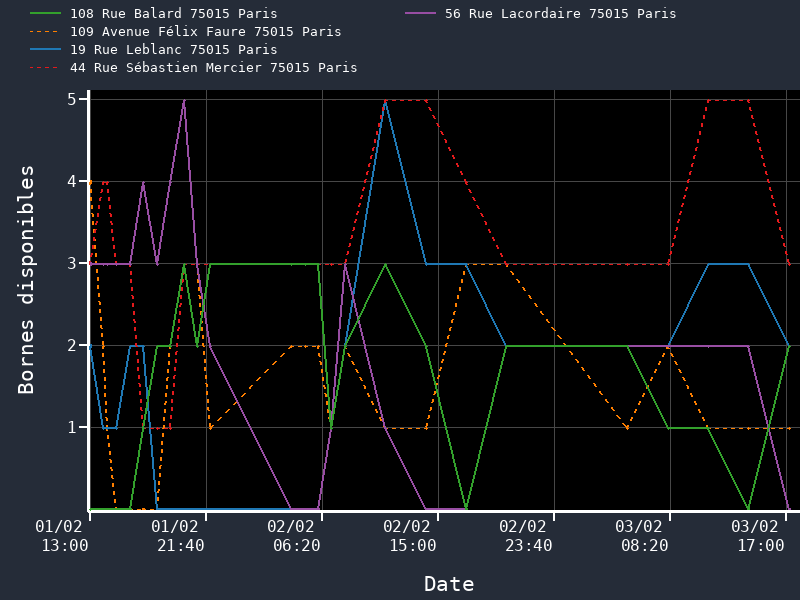
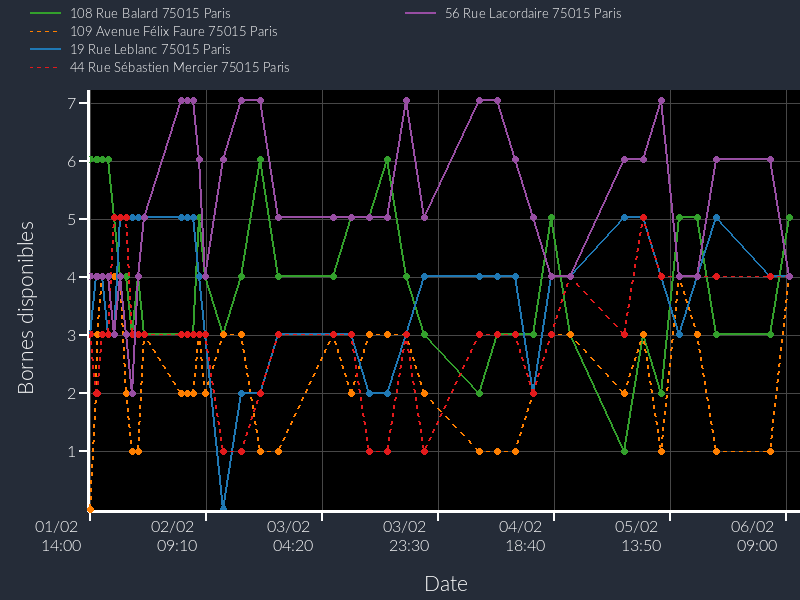
Update w new data

diff --git a/plotting_data/src/main.c b/plotting_data/src/main.c
@@ -43,7 +43,7 @@ int main(int argc, char* argv[])
 
     // Recuperation du nombre de lignes par station
     int nb_rows_par_station = Get_nb_rows_par_station(db_belib);
-
+    printf(" > Nb rows : %d \n", nb_rows_par_station);
     // Recuperation des adresses des stations en favoris
     char *tableau_adresses_fav[nb_stations_fav];
     Get_adresses_fav(db_belib, tableau_adresses_fav, nb_stations_fav);
@@ -86,9 +86,9 @@ int main(int argc, char* argv[])
     int labelSize = 16;              /**< taille de police labels*/
     int tickSize = 12;               /**< taille de police des ticks*/
     int w_lines = 2;                 /**< epaisseur des traits*/
-    int ms = 3;                      /**< marker size */
-    char* fontLabels = "/usr/share/fonts/dejavu-sans-mono-fonts/DejaVuSansMono.ttf"; /**< chemin vers police 1 */
-
+    int ms = 6;                      /**< marker size */
+    // char* fontLabels = "/usr/share/fonts/dejavu-sans-mono-fonts/DejaVuSansMono.ttf"; /**< chemin vers police 1 */
+    char* fontLabels = "/usr/share/fonts/truetype/lato/Lato-Light.ttf";
     // Creation de la figure
     Figure fig1;
     Init_figure(&fig1, figsize, pad, margin);
@@ -123,7 +123,7 @@ int main(int argc, char* argv[])
         Get_statut_station(nb_stations_fav, nb_rows_par_station, nb_statuts,\
                     vect_nb_dispo[st], \
                     tableau_statuts_fav,
-                    st, occupe);
+                    st, disponible);
 
         if (st % 2 != 0) {
             printf("st     : %d \n", st);
@@ -145,8 +145,9 @@ int main(int argc, char* argv[])
     /* Make X ticks and grid line*/
     Make_xticks_xgrid(&fig1, fontLabels, tickSize, tableau_date_recolte_fav[0]);
 
-    /* Make Y ticks and grid line*/
+    // /* Make Y ticks and grid line*/
     Make_yticks_ygrid(&fig1, fontLabels, tickSize);
+    printf("Done here.\n");
 
     /* Make legend */
     int decalx_leg = 0, decaly_leg = 0, ecart = 2;
@@ -157,21 +158,8 @@ int main(int argc, char* argv[])
     {
         PlotLine(&fig1, &(lines[st]));
     }
-    PlotLine(&fig1, &(lines[0]));
-    PlotLine(&fig1, &(lines[0]));
-    PlotLine(&fig1, &(lines[0]));
-    PlotLine(&fig1, &(lines[0]));
-    PlotLine(&fig1, &(lines[0]));
-    PlotLine(&fig1, &(lines[0]));
-    PlotLine(&fig1, &(lines[0]));
-    PlotLine(&fig1, &(lines[0]));
-    PlotLine(&fig1, &(lines[0]));
-    PlotLine(&fig1, &(lines[0]));
-    PlotLine(&fig1, &(lines[0]));
-    PlotLine(&fig1, &(lines[0]));
-    PlotLine(&fig1, &(lines[0]));
-    PlotLine(&fig1, &(lines[0]));
-    PlotLine(&fig1, &(lines[0]));
+    // PlotLine(&fig1, &(lines[0]));
+
 
      /* Sauvegarde du fichier png */
     // const char *filename_fig1= "fig1_occupe.png";

diff --git a/plotting_data/src/libs/plotter.h b/plotting_data/src/libs/plotter.h
@@ -809,6 +809,7 @@ void Make_legend(Figure *fig, char* font, int size,\
     // Position des 8 legendes possibles
     int w_img = fig->img->sx;
     int pos_midX = w_img/2 + 5;
+    printf("Done here.\n");
 
     int pos_X[8] = {30  + decal_X, 30  + decal_X,\
                     30  + decal_X, 30  + decal_X,\
@@ -927,7 +928,7 @@ void Make_xticks_xgrid(Figure *fig, char* font, int fontsize, Date date_init)
 
         char tickhour[6];
         strftime(tickhour, 6, "%H:%M", tm_tick);
-        printf("%s \n", tickdate);
+        printf("%s \n", tickhour);
 
 
         gdImageStringFT(fig->img, NULL,\
@@ -949,6 +950,7 @@ void Make_xticks_xgrid(Figure *fig, char* font, int fontsize, Date date_init)
 
     //Avoid memory leaks
     gdFontCacheShutdown();
+
 }
 
 /* --------------------------------------------------------------------------- */
